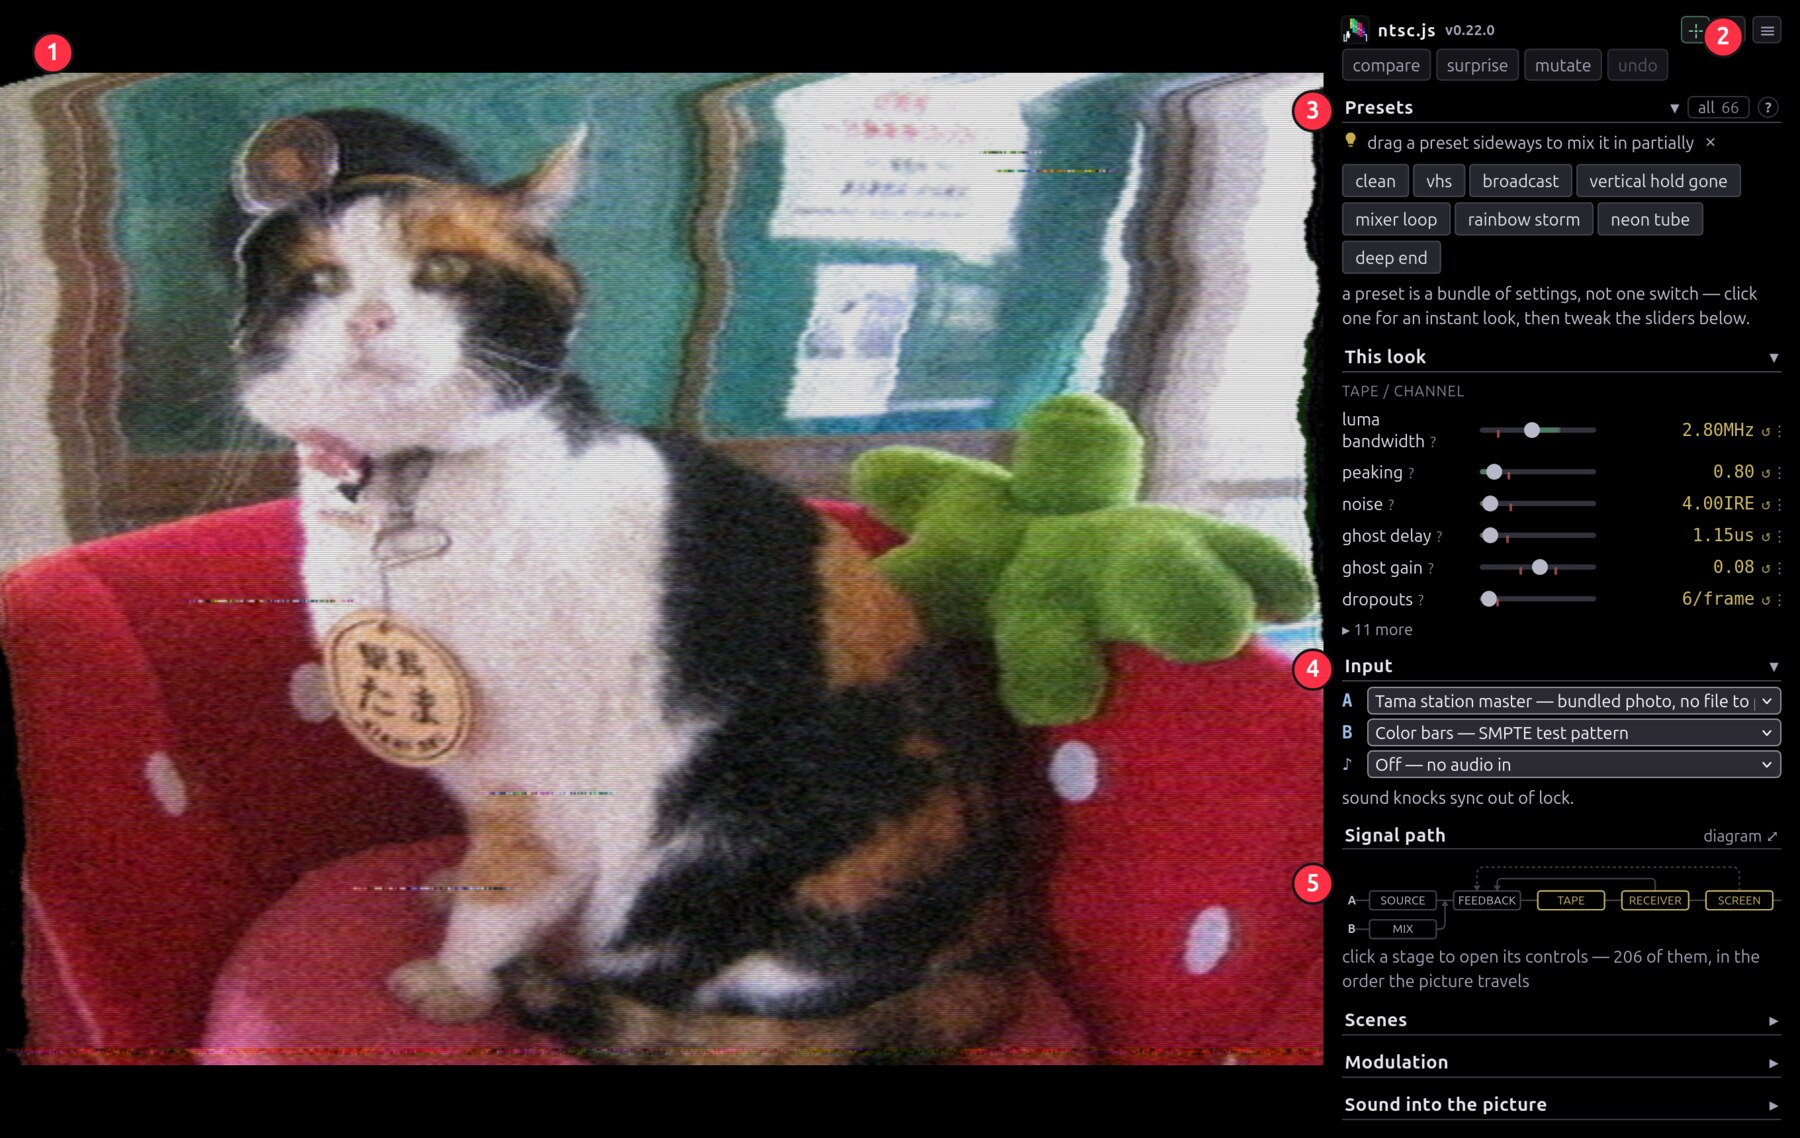
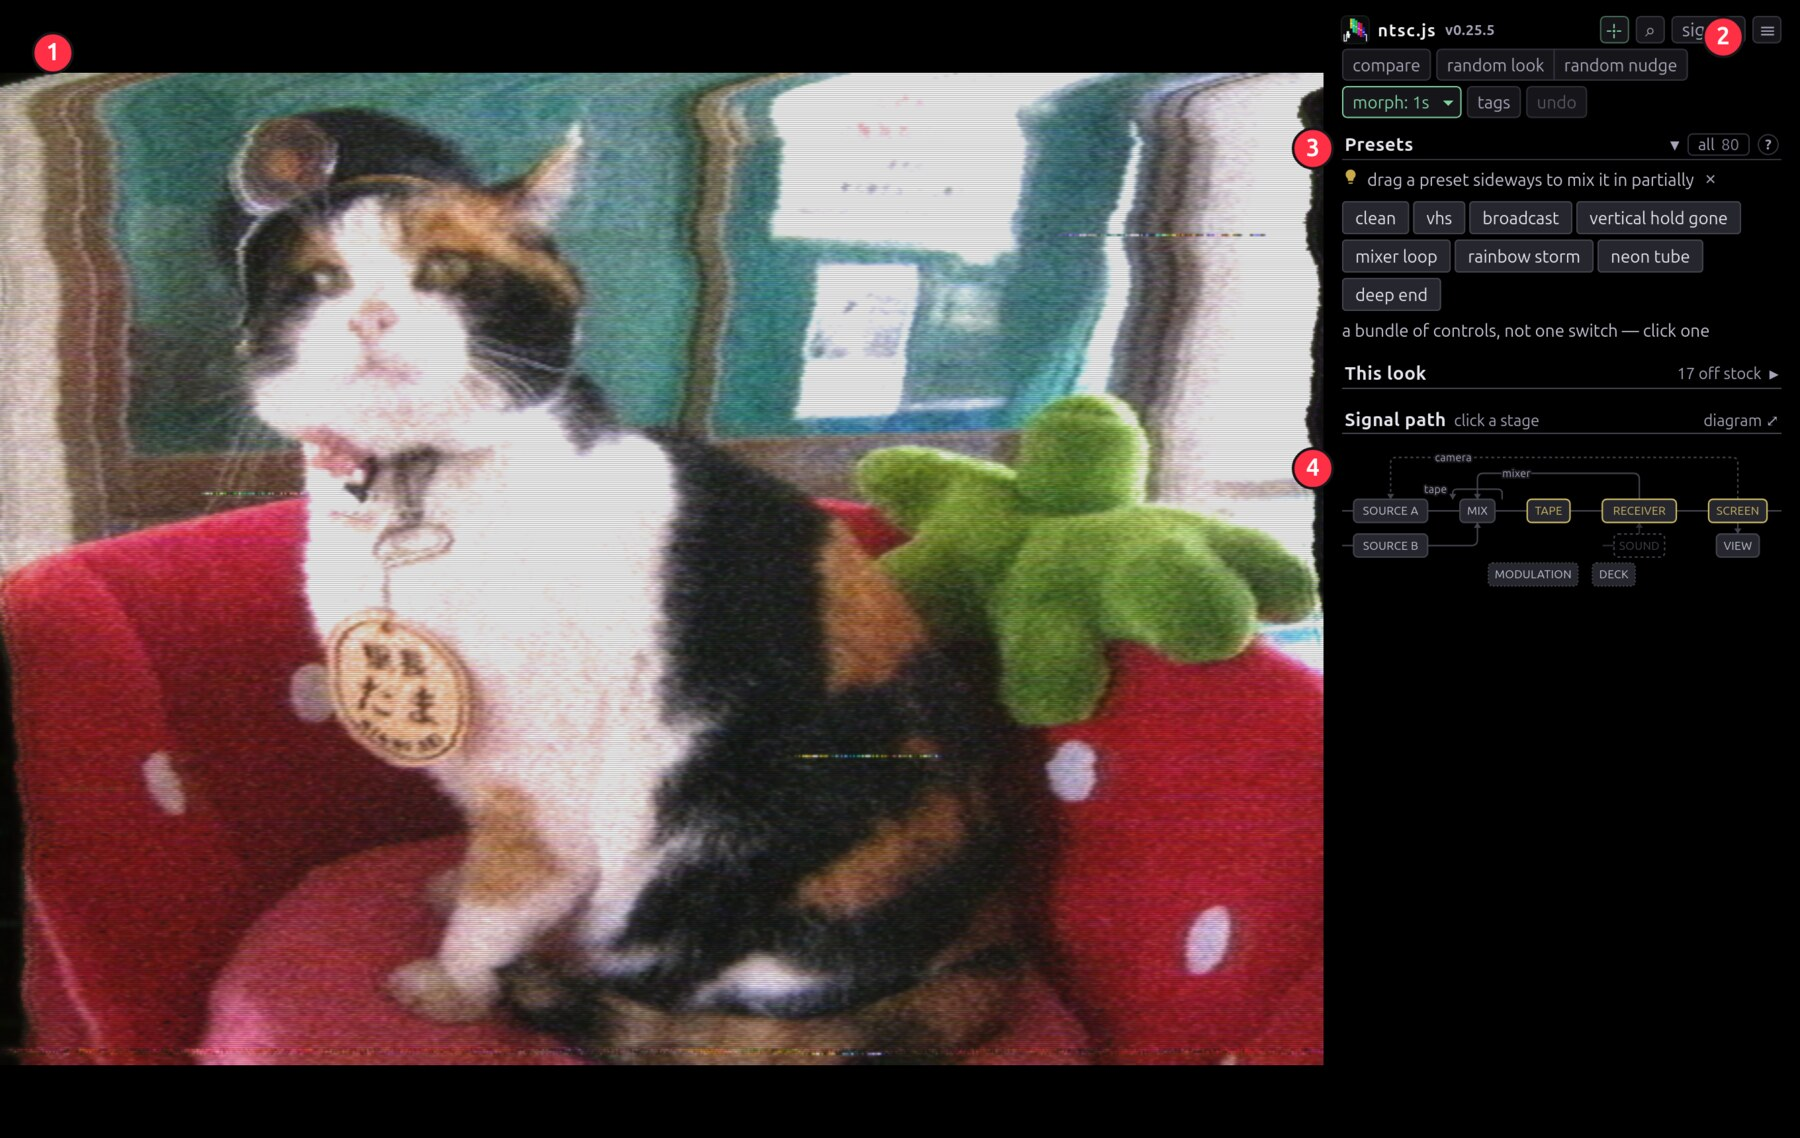
fix(docs): stop pointing at the Input section, which is gone
The pickers moved into the stages they feed, dissolving the section called
"Input". Three places still named it:

- The help dialog's getting-started step 2 told a first-run user to "pick an
  Input", and step 3 listed "feedback" as a stage — it has been three loops
  since the split. Both fold into one step that says where a source is now:
  heading its own stage, so Source A is where you put a picture in and where you
  shape it. This is load-bearing after the sidebar stopped unfolding that stage
  on a first run.
- The overview figure annotated `{section:'Input'}`, which `need()` cannot
  resolve — the shot has been failing outright, not drifting. The legend is four
  items now, the map covering both the way in and the way to every control.
- The docshot SEED still seeded it open.

SEED deliberately seeds no open stage: that is the app's resting state, and a
shot wanting one says which. Reshot the two surviving figures that frame the
panel without seeding a stage (overview, chain), which now rest on the map; the
rest seed their own and are unchanged.

diff --git a/src/ui/HelpDialog.tsx b/src/ui/HelpDialog.tsx
@@ -23,15 +23,15 @@ export function HelpDialog({ onClose }: { onClose: () => void }) {
           mix it in partially, stacking its faults onto what’s already there.
         </li>
         <li>
-          Pick an <b>Input</b> (A is the main source; B mixes a second in).
-        </li>
-        <li>
-          Below that is the path itself — <b>source</b>, <b>feedback</b>,{' '}
-          <b>tape</b>, <b>receiver</b>, <b>screen</b>, wired in the order the
-          signal travels, with B joining from below at <b>mix</b>. Open a stage
-          to reach its controls; the dot beside one counts what you’ve moved
-          there. <b>diagram ⤢</b> draws the whole thing large, feeds and loops
-          included.
+          Below that is the path itself — <b>source A</b>, <b>tape</b>,{' '}
+          <b>receiver</b>, <b>screen</b>, wired in the order the signal travels,
+          with <b>source B</b> joining from below at <b>mix</b>. Every box on
+          the map is a button: opening a stage reaches its controls, and the dot
+          beside one counts what you’ve moved there. The picker that decides
+          what a source <i>is</i> — a file, a webcam, a screen share, a random
+          clip — heads its own stage, so <b>source A</b> is both where you put a
+          picture in and where you shape it. <b>diagram ⤢</b> draws the whole
+          thing large, feeds and loops included.
         </li>
         <li>
           Every slider has a <b>?</b> explaining the hardware fault it models.

diff --git a/docs/GETTING-STARTED.md b/docs/GETTING-STARTED.md
@@ -37,7 +37,7 @@ lives in the URL, so a link is a patch.
 
 **1** the picture, where a drag boxes a region to magnify and a double-click
 pulls back · **2** the ☰ menu, for stills, recording, fullscreen and settings ·
-**3** presets · **4** input, A and B · **5** the way into every control.
+**3** presets · **4** the way into every control, sources included.
 
 Controls sit where they belong on the signal path. The chain map at the top of
 the sidebar is that path, and every box on it is a button.
